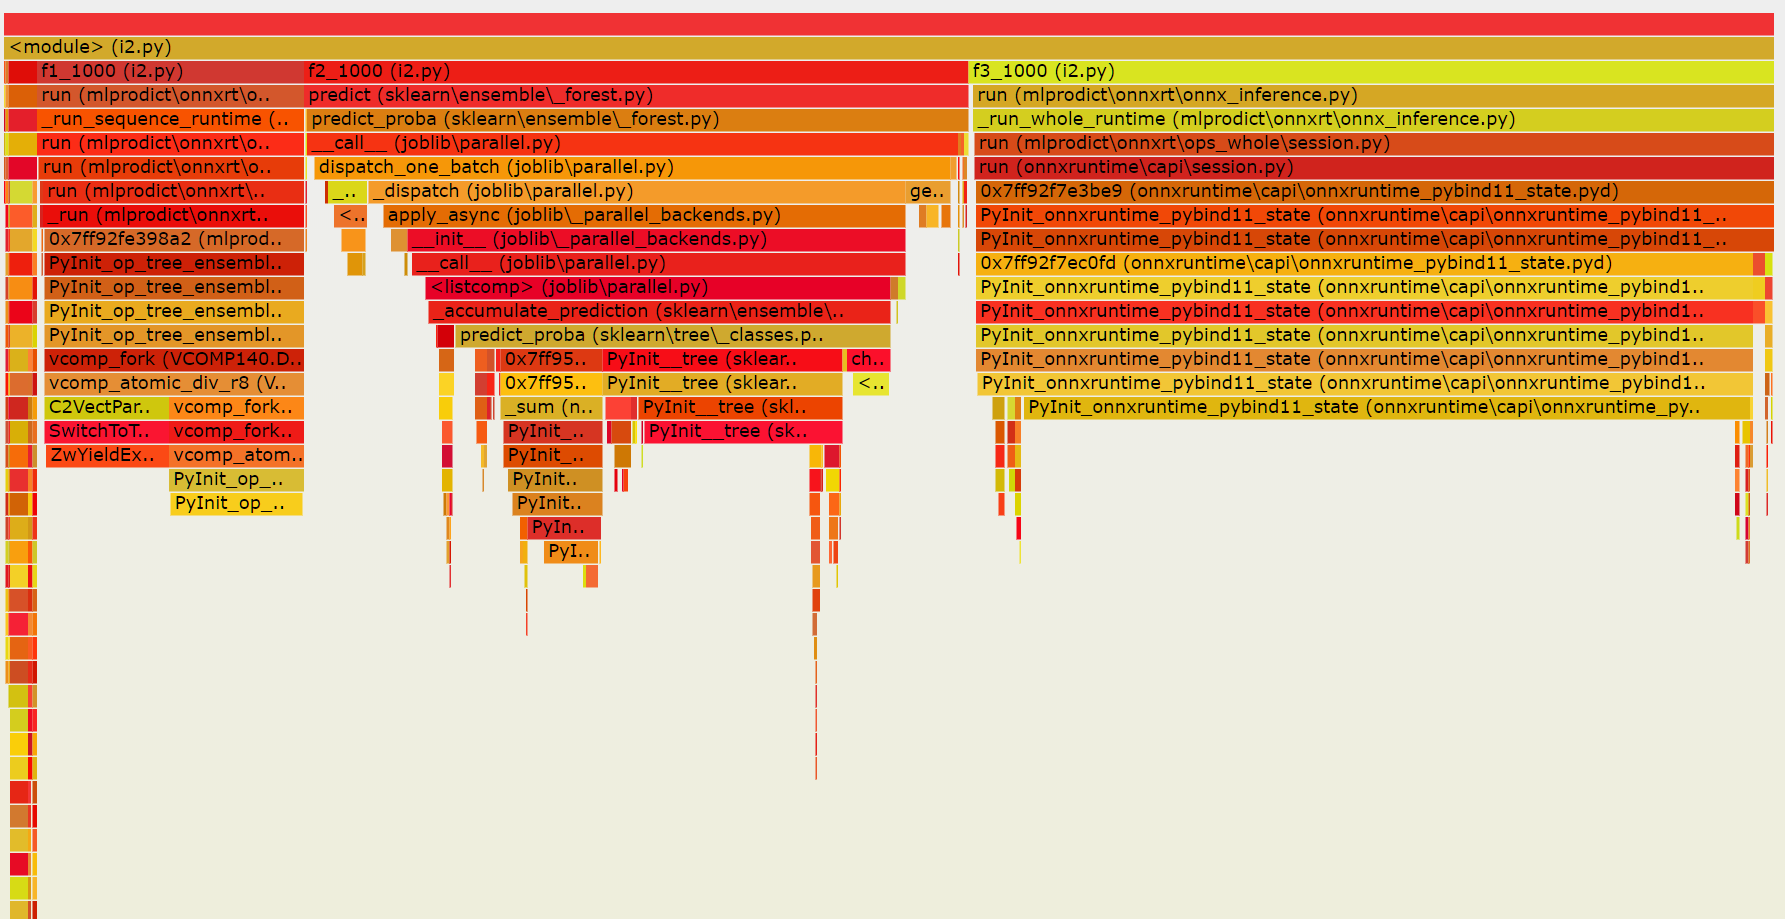
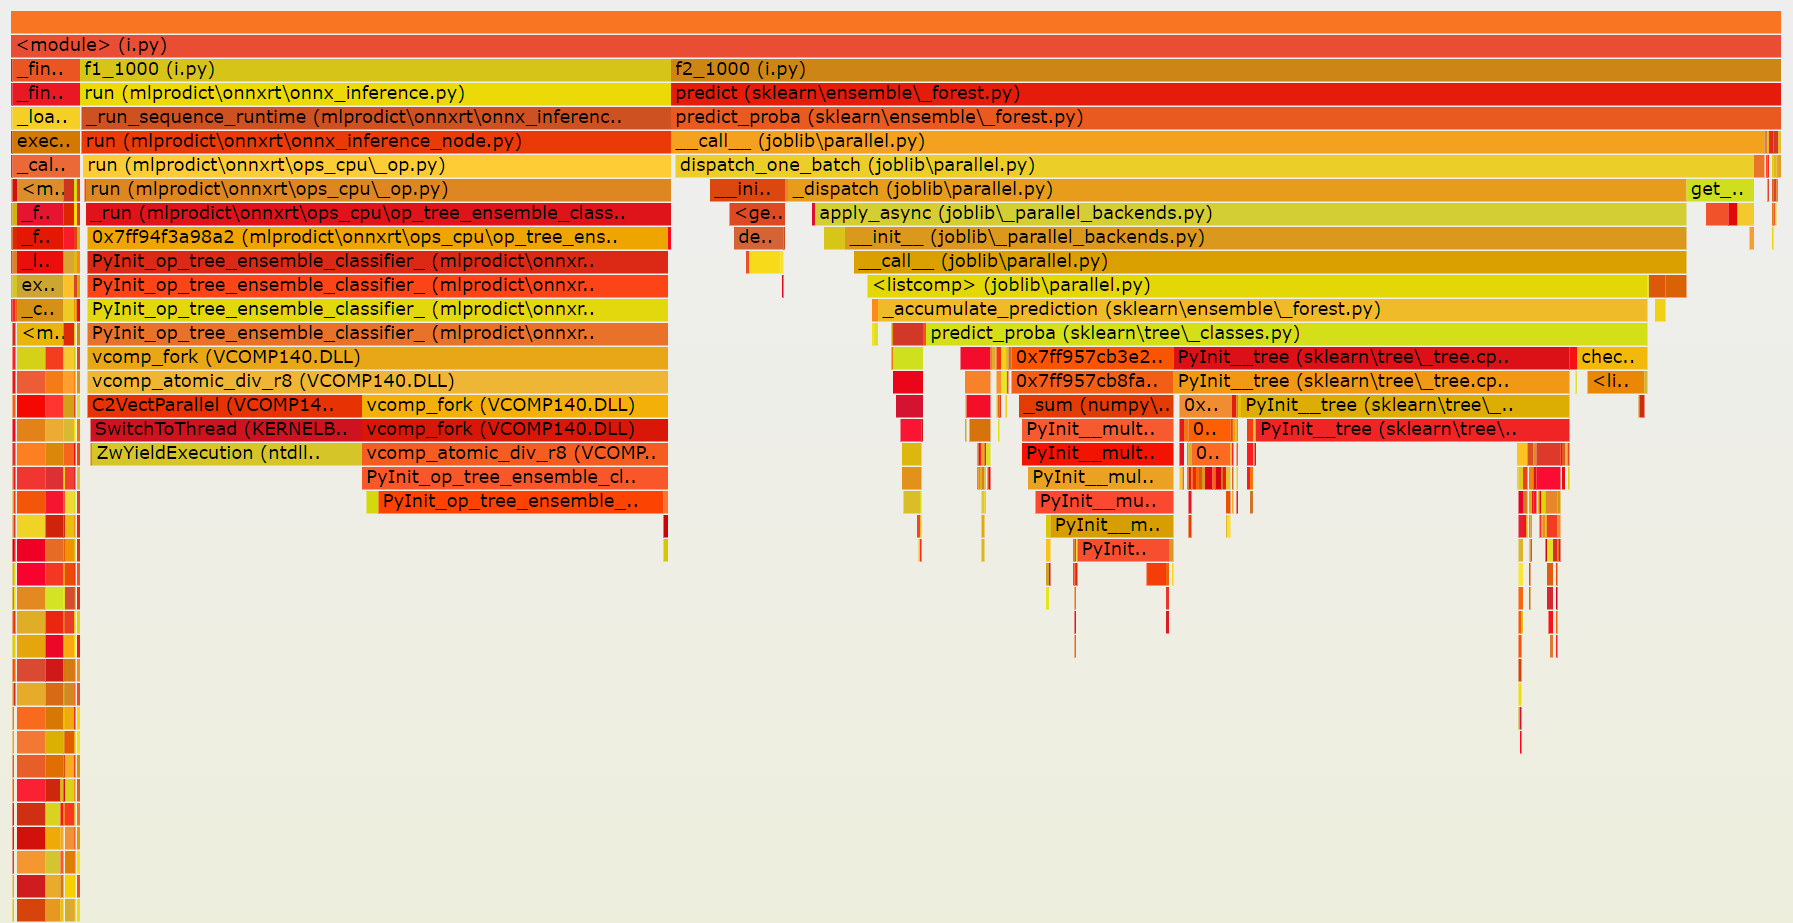
documentation

diff --git a/_doc/sphinxdoc/source/conf.py b/_doc/sphinxdoc/source/conf.py
@@ -60,6 +60,7 @@ epkg_dictionary.update({
     'Iris': 'https://en.wikipedia.org/wiki/Iris_flower_data_set',
     'json': 'https://docs.python.org/3/library/json.html',
     'JSON': 'https://en.wikipedia.org/wiki/JSON',
+    'joblib': 'https://joblib.readthedocs.io/en/latest/',
     'lightgbm': 'https://lightgbm.readthedocs.io/en/latest/',
     'Minkowski distance': 'https://en.wikipedia.org/wiki/Minkowski_distance',
     'mlprodict': 'http://www.xavierdupre.fr/app/mlprodict/helpsphinx/index.html',

diff --git a/_doc/sphinxdoc/source/blog/2019/2019-12-04_py-spy.rst b/_doc/sphinxdoc/source/blog/2019/2019-12-04_py-spy.rst
@@ -8,7 +8,9 @@
     I was meeting with Olivier Grisel this morning and
     we were wondering why :epkg:`scikit-learn` was slow
     to compute the prediction of a random forest for
-    one observation compare to what :epkg:`onnxruntime` does.
+    one observation compare to what :epkg:`onnxruntime` does,
+    and more specically some optimized C++ code inspired
+    from :epkg:`onnxruntime`.
     We used :epkg:`py-spy` and wrote the following script:
 
     ::
@@ -64,11 +66,11 @@
 
     .. image:: rf1.png
 
-    It shows that on my machine, :epkg:`scikit-learn: is delayed
+    It shows that on my machine, :epkg:`scikit-learn` is delayed
     by :epkg:`joblib` which is not really useful for this small
     dataset. ``check_is_fitted`` takes some time despite the fact
     ``sklearn.config_context(assume_finite=True)`` was used.
-    I then modified the script to compare this outcome to what
+    We then modified the script to compare this outcome to what
     we would get for the prediction of 1000 observations in a row.
 
     ::
@@ -109,8 +111,8 @@
         f1_1000()  # C++
         f2_1000()  # scikit-learn
 
-    Both version spend similar time into the functions
-    which computes the predictions but :epkg:`joblib` is
+    Both versions spend similar time into the functions
+    which compute the predictions but :epkg:`joblib` is
     still adding some extra time.
 
     .. image:: rf123.png
